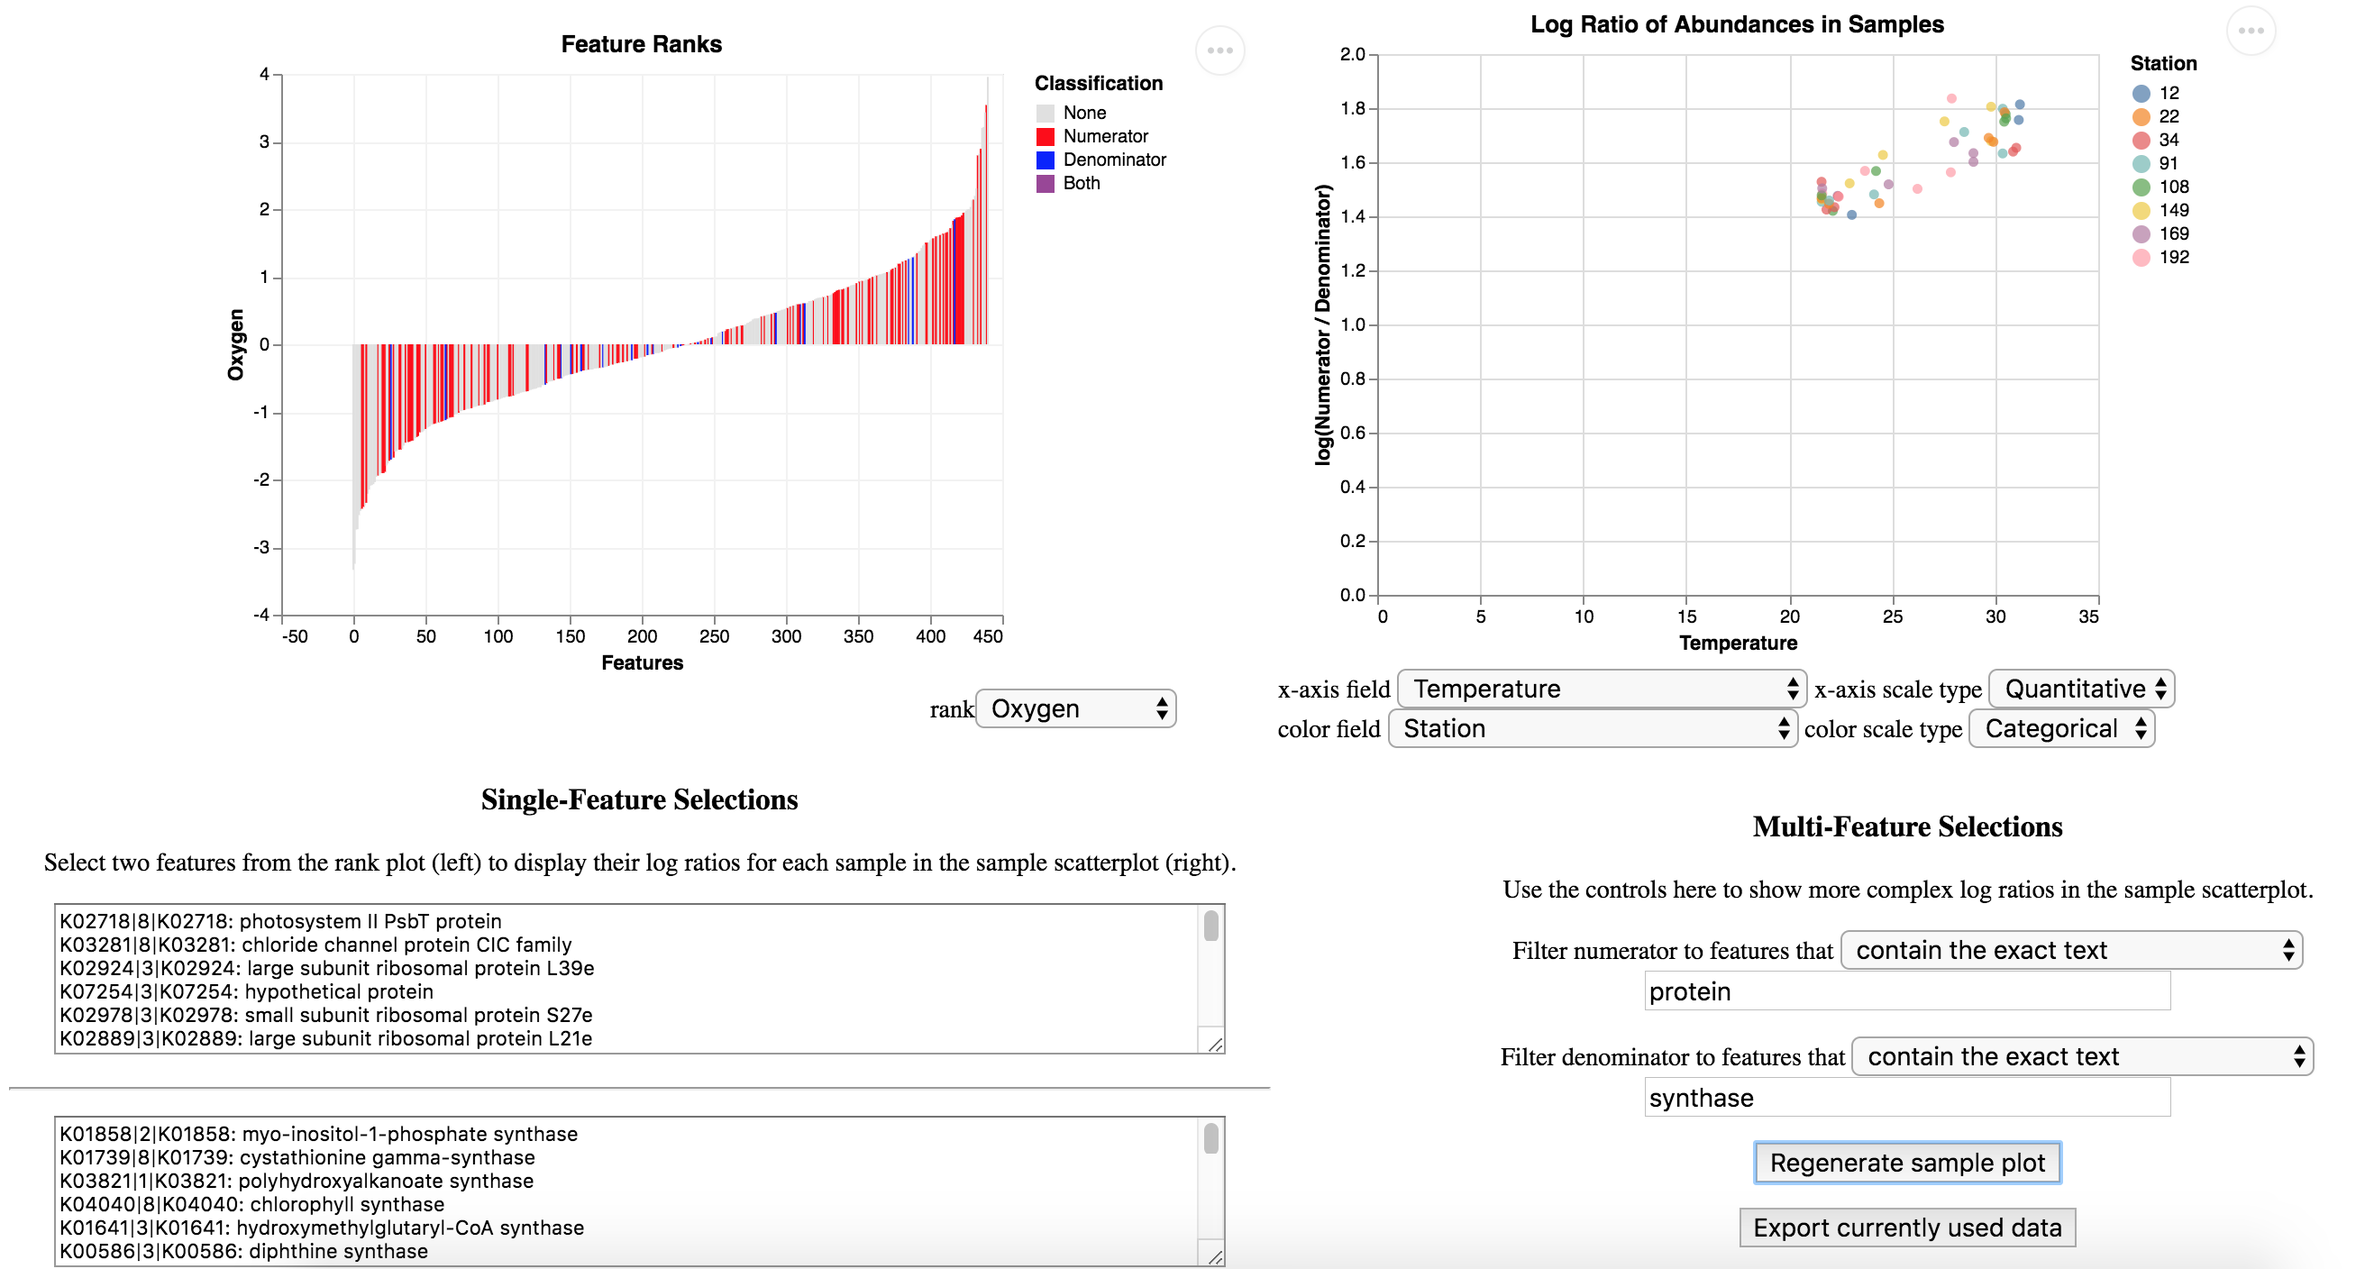
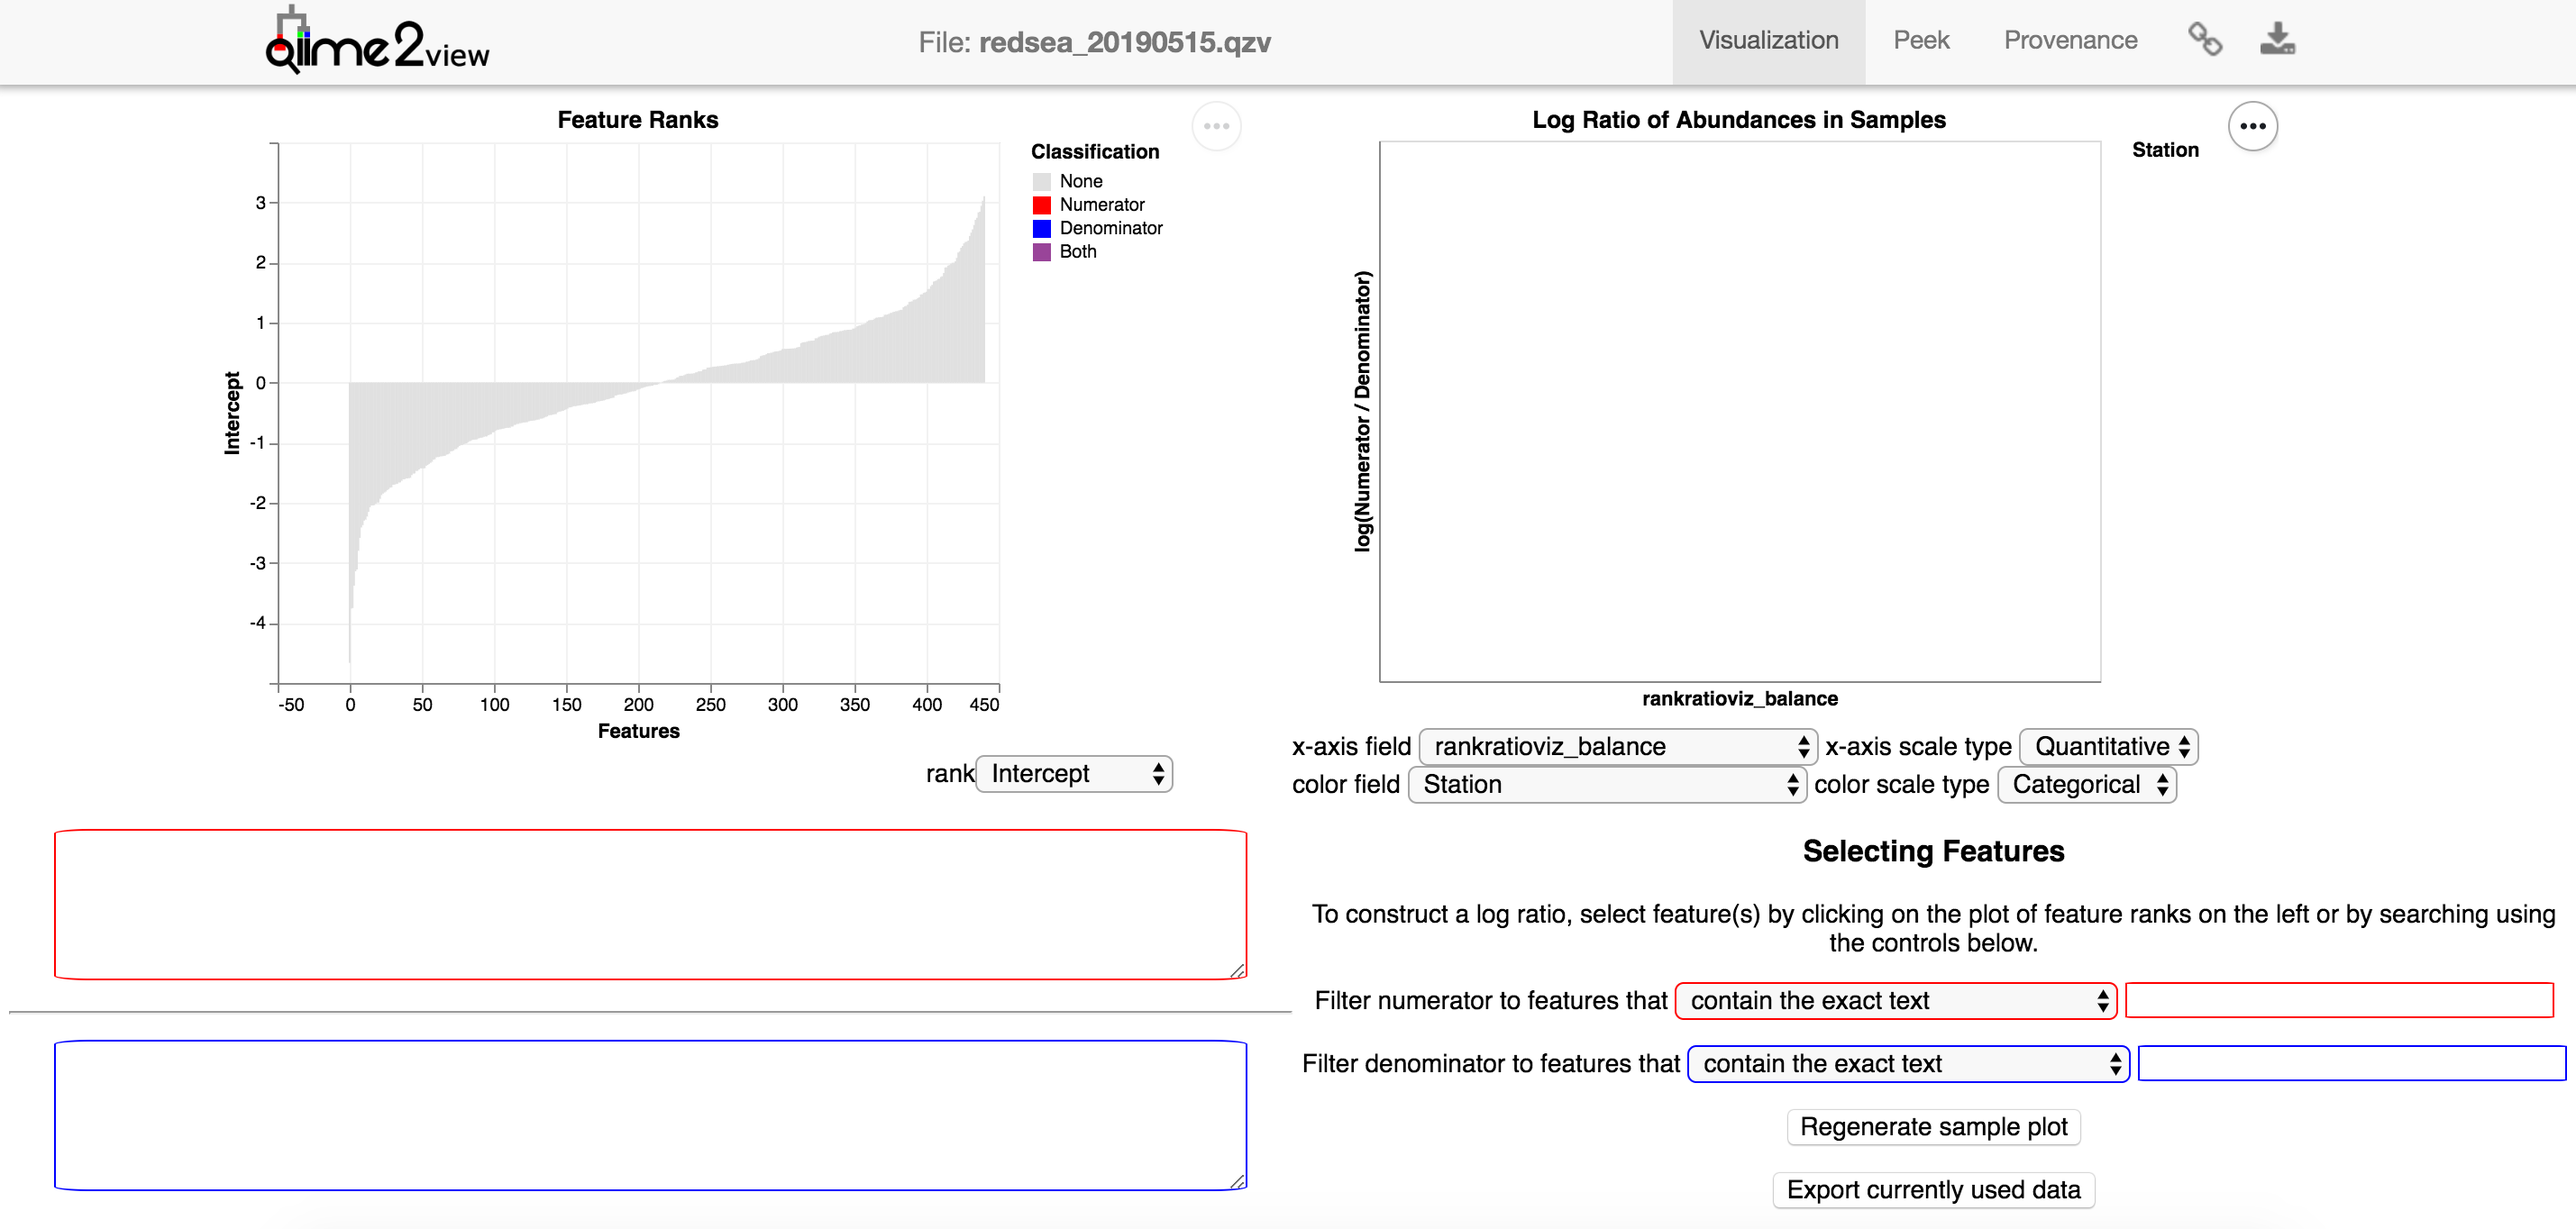
DOC: Update example screenshot + README QZV link
Both pertinent changes considering recent updates to #111, etc.

diff --git a/README.md b/README.md
@@ -28,7 +28,7 @@ occur. If you have any questions, feel free to contact the development team at
 
 This visualization (which uses some of the
 [Red Sea metagenome data](https://www.ncbi.nlm.nih.gov/pmc/articles/PMC5315489/), with ranks generated by
-[songbird](https://github.com/biocore/songbird/)) can be viewed online [here](https://view.qiime2.org/?src=https%3A%2F%2Fwww.dropbox.com%2Fs%2Frrucoomonr1037r%2Fredsea_20190427.qzv).
+[songbird](https://github.com/biocore/songbird/)) can be viewed online [here](https://view.qiime2.org/visualization/?type=html&src=https%3A%2F%2Fdl.dropbox.com%2Fs%2Fvn7pr5nsw9n7es1%2Fredsea_20190515.qzv%3Fdl%3D1).
 
 ## Installation and Usage
 
